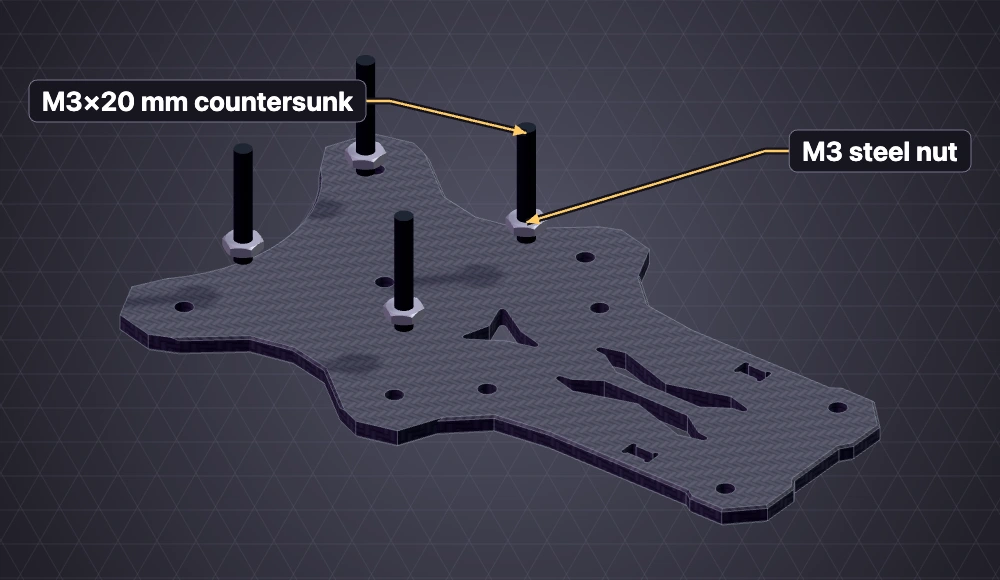
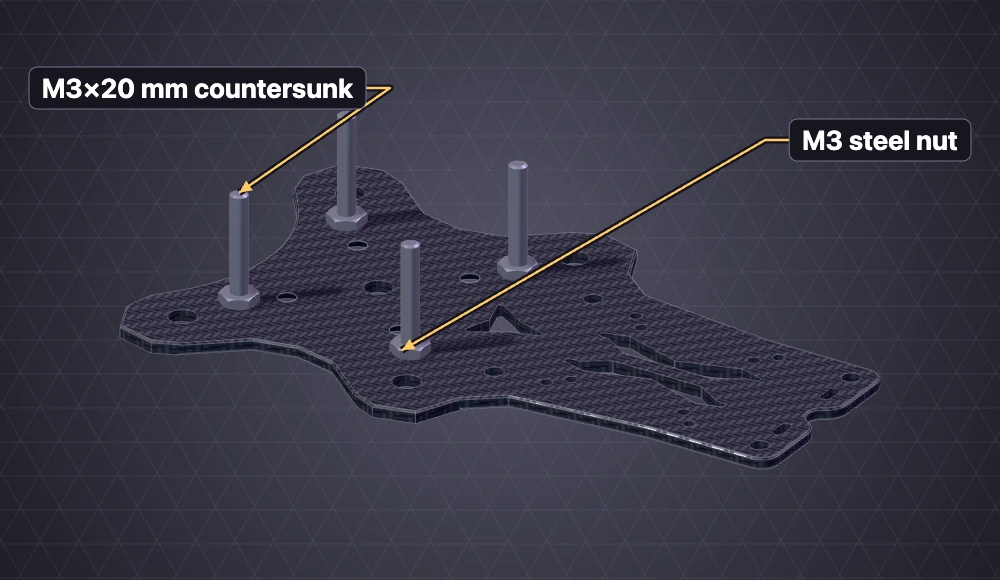
Render the first assembly steps from their exact STEP exports

Changed region(s): [[0.031, 0.0931, 0.961, 0.9]]

diff --git a/build-guide.html b/build-guide.html
@@ -135,7 +135,7 @@
                 </p>
               </div>
               <img
-                src="assets/build-guide/step-1-install-stack-screws.webp"
+                src="assets/build-guide/step-1-install-stack-screws.webp?v=step-cad"
                 alt="Step 1: M3x20 countersunk stack screws and M3 steel nuts installed in the Shreddo 5 bottom plate"
               >
             </article>
@@ -150,8 +150,8 @@
                 </p>
               </div>
               <img
-                src="assets/build-guide/step-2-locking-plates-tpu-arms.webp"
-                alt="Step 2: Arms installed with carbon locking plates and TPU layer"
+                src="assets/build-guide/step-2-locking-plates-tpu-arms.webp?v=step-cad"
+                alt="Step 2: Four arms and five arm screws around the assembled carbon locking plates and violet TPU layer"
               >
             </article>
 
